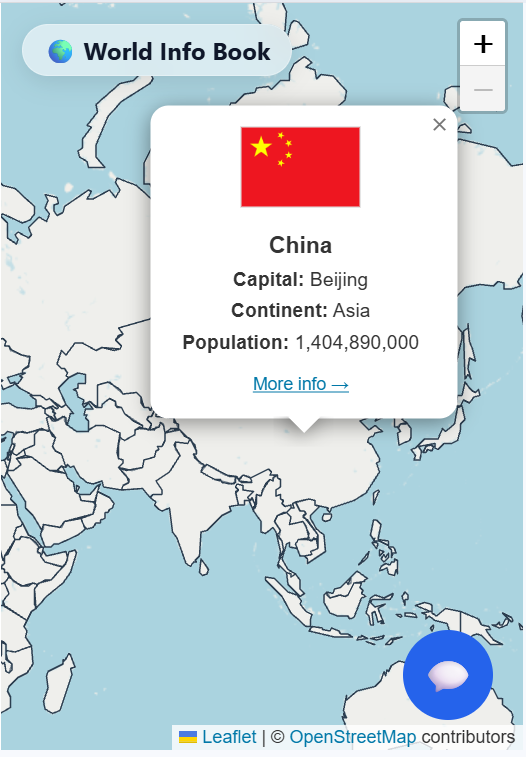
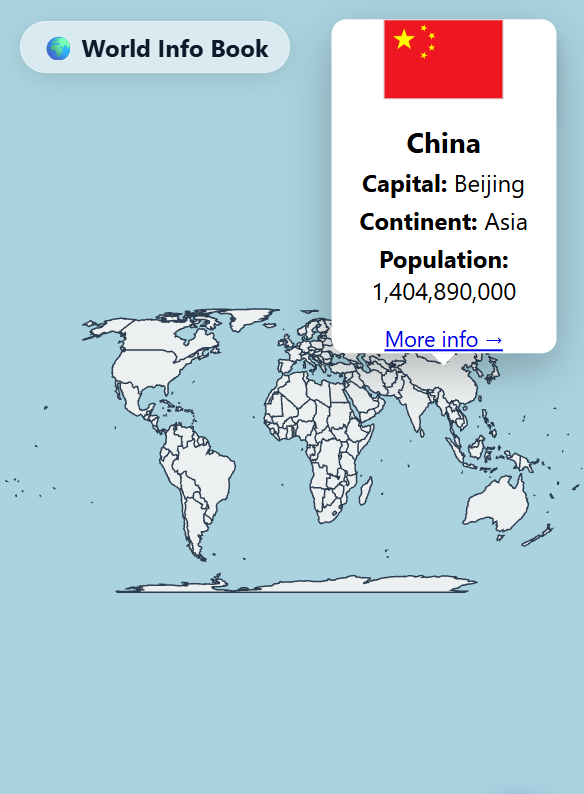
Update README and screenshots for the D3 map rewrite
Reflects the switch from Leaflet/OpenStreetMap to a D3 Equal Earth
projection, the new locally-hosted 258-country dataset, and the
popup/touch improvements. Screenshots retaken from the live deployment.

diff --git a/README.md b/README.md
@@ -26,15 +26,17 @@ An interactive, AI‑powered world map that lets you explore country data at a g
 
 ## ✨ Features
 
-- **Interactive world map** – pan, zoom, and click any country.
-- **Detailed country popups** – show flag, capital, continent, and population (formatted with commas).
+- **Interactive world map** – pan, zoom (mouse, trackpad, or touch), and click any country.
+- **Equal Earth projection** – renders country borders as vector shapes with d3-geo instead of a Mercator‑projected raster basemap, so landmass sizes stay proportionally accurate (no more Greenland‑sized‑as‑Africa distortion).
+- **258 countries and territories** – including small island nations and micro‑states (Cape Verde, Vatican City, Tuvalu, etc.) that many world‑map datasets leave out.
+- **Detailed country popups** – show flag, capital, continent, and population (formatted with commas); stay anchored to the country as you pan/zoom, and clamp to the screen edge on narrow viewports.
 - **Britannica integration** – “More info” link searches Britannica for the country.
 - **AI chatbot assistant** – ask questions about any country; get real‑time, streaming answers.
 - **Glass‑morphism UI** – a sleek, translucent title badge and responsive design.
 - **Chat tooltip** – gentle onboarding for first‑time users (auto‑fades after 5 seconds).
 - **Globe favicon** – a simple emoji‑based icon for your browser tab.
-- **Full‑screen, immersive map** – with Leaflet and OpenStreetMap tiles.
-- **Responsive design** – works beautifully on desktop, tablet, and mobile.
+- **Full‑screen, immersive map** – rendered entirely in SVG with [D3.js](https://d3js.org/), no basemap tile imagery.
+- **Responsive design** – works on desktop, tablet, and mobile, with proper touch support for pan/pinch‑zoom.
 
 ---
 
@@ -61,12 +63,12 @@ You are a helpful country facts assistant. Respond in clear, plain text. Do not 
 
 | Category | Technology |
 |----------|------------|
-| **Map** | [Leaflet](https://leafletjs.com/) + [OpenStreetMap](https://www.openstreetmap.org/) tiles |
+| **Map** | [D3.js](https://d3js.org/) (`d3-geo` + `d3-zoom`) – vector SVG rendering with an Equal Earth projection |
 | **Country Data** | [REST Countries API v5](https://restcountries.com/) |
 | **AI Chat** | [Groq](https://groq.com/) (model: `openai/gpt-oss-120b`) |
 | **Hosting & Serverless** | [Vercel](https://vercel.com/) |
 | **Fonts** | System UI stack (no external fonts) |
-| **GeoJSON Data** | [johan/world.geo.json](https://raw.githubusercontent.com/johan/world.geo.json/master/countries.geo.json) |
+| **GeoJSON Data** | Locally‑hosted, [mapshaper](https://mapshaper.org/)‑simplified copy of [datasets/geo-countries](https://github.com/datasets/geo-countries) (Natural Earth derived, 258 features) — see `data/countries.geojson` |
 | **Favicon** | Emoji‑based SVG data URI |
 | **Version Control** | Git + GitHub |
 
@@ -140,7 +142,9 @@ Make sure to add your environment variables in the Vercel dashboard:
 world-info-book/
 ├── index.html          # Main HTML + inline styles/scripts
 ├── style.css           # Global and map styles
-├── script.js           # Map logic, popups, and chat UI
+├── script.js           # D3 map (Equal Earth projection), popups, and chat UI
+├── data/
+│   └── countries.geojson  # Locally-hosted country outlines (258 features)
 ├── api/
 │   ├── chat.js         # AI chatbot endpoint (Groq)
 │   └── countries.js    # Country data proxy (REST Countries v5)
@@ -153,8 +157,8 @@ world-info-book/
 
 ## 🙌 Acknowledgements
 
-- [Leaflet](https://leafletjs.com/) for the mapping library.
-- [OpenStreetMap](https://www.openstreetmap.org/) for the tile layers.
+- [D3.js](https://d3js.org/) for the mapping and projection library.
+- [datasets/geo-countries](https://github.com/datasets/geo-countries) and [Natural Earth](https://www.naturalearthdata.com/) for the country outline data.
 - [REST Countries](https://restcountries.com/) for the country data API.
 - [Groq](https://groq.com/) for the fast AI inference.
 - [Vercel](https://vercel.com/) for seamless hosting and serverless functions.
